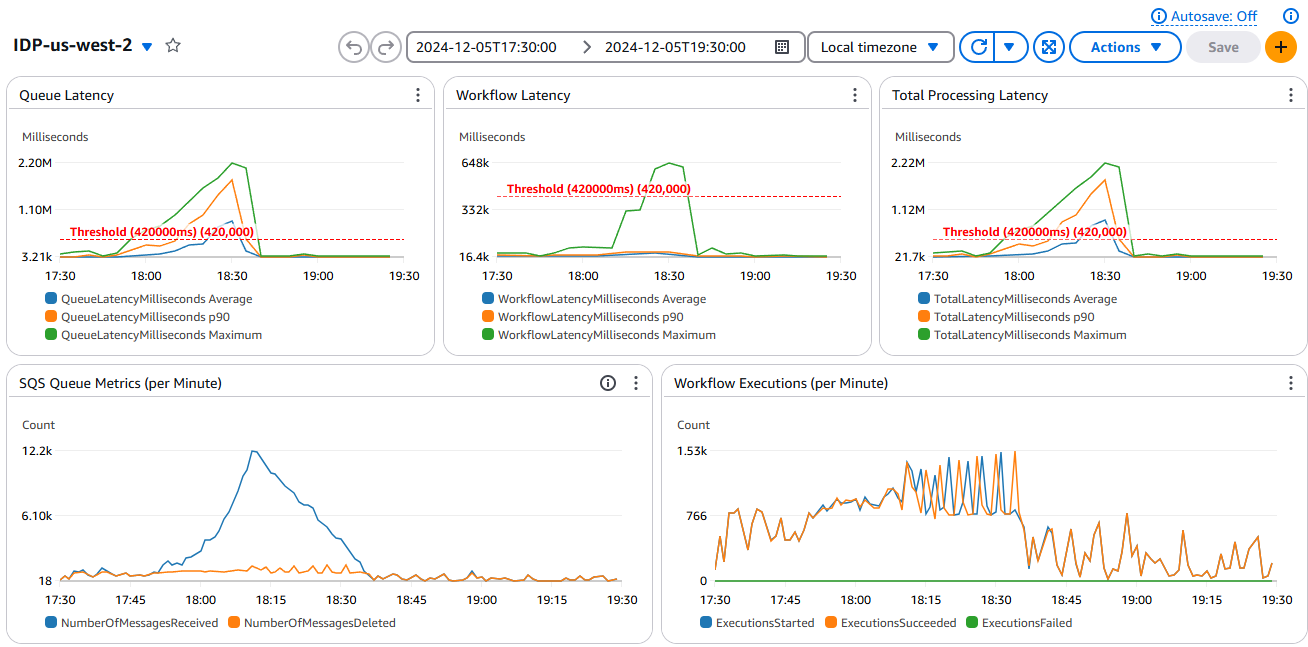
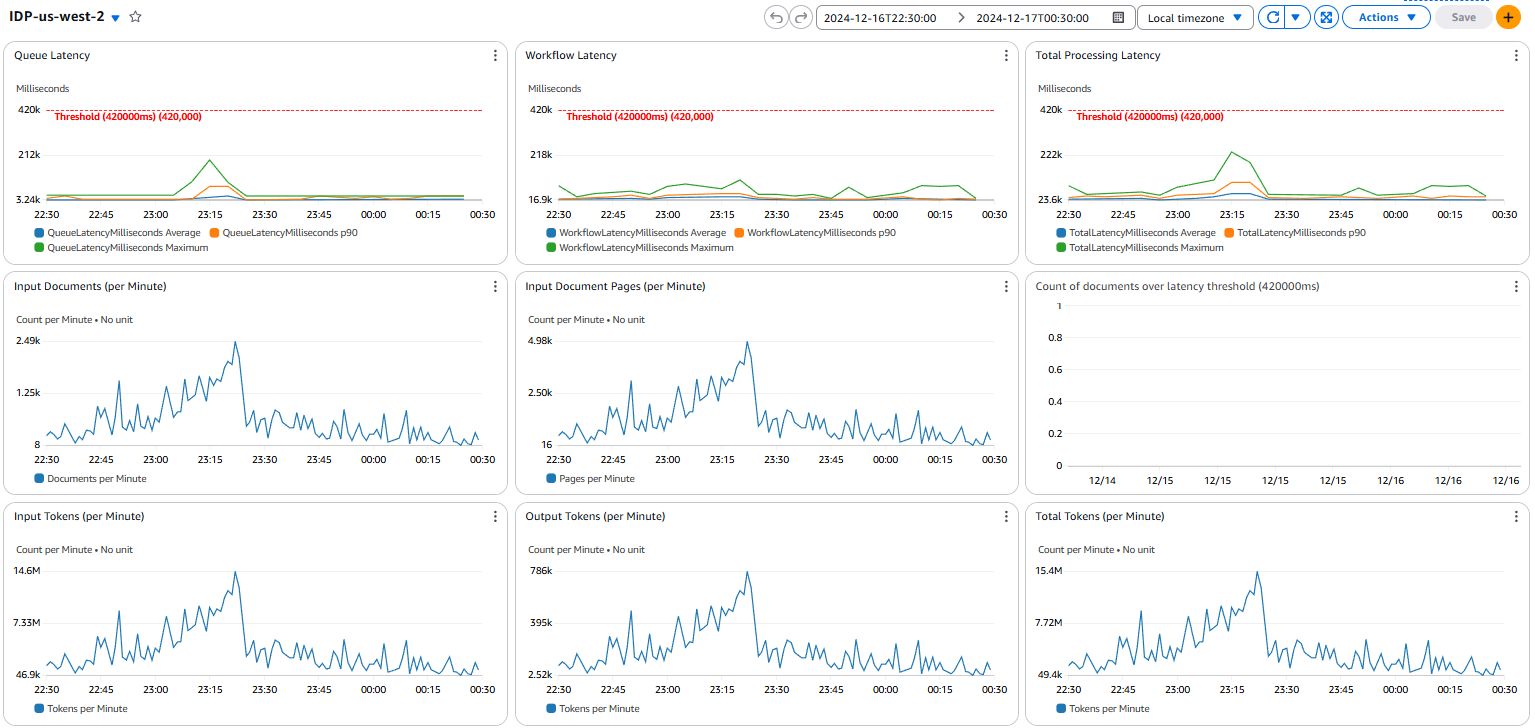
Add widgets to dashboard, add service quota limits, and refresh dashboard screenshots

diff --git a/README.md b/README.md
@@ -154,8 +154,10 @@ Increase maximum concurrency to maximise throughput for time sensitive workloads
 ### CloudWatch Dashboard
 Access via CloudWatch > Dashboards > `${StackName}-${Region}`
 
-<img src="./images/Dashboard1.png" alt="Dashboard1" width="800">
-<img src="./images/Dashboard2.png" alt="Dashboard2" width="800">
+<img src="./images/Dashboard1.png" alt="Dashboard1" width="800">  
+
+<img src="./images/Dashboard2.png" alt="Dashboard2" width="800">  
+
 <img src="./images/Dashboard3.png" alt="Dashboard3" width="800">
 
 
@@ -166,16 +168,16 @@ Access via CloudWatch > Dashboards > `${StackName}-${Region}`
 All include average, p90, and maximum values
 
 #### Throughput Metrics
+- Document and Page counts
+- LLM Tokens processed 
 - SQS Queue metrics (received/deleted)
 - Step Functions execution counts
 - Textract and Bedrock function invocations and durations
-- Document and Page counts
-- LLM Tokens processed 
 
 #### Error Tracking
-- Failed Step Functions executions
-- Lambda function errors
 - Long-running invocations
+- Lambda function errors
+- Failed Step Functions executions
 
 ### Log Groups
 ```
@@ -235,6 +237,18 @@ All include average, p90, and maximum values
   ExtractionPromps='OCR + Page Images'                  # Optionally exclude images from prompt to trade accuracy for cost/throughput.
   ```
 
+## Service Quota Limits for high volume processing
+
+Consider requesting raised quotas for the following services, to avoid throttling errors:
+- Amazon Textract -> DetectDocumentText throttle limit in transactions per second 
+- Amazon Bedrock -> On-demand InvokeModel tokens per minute for Anthropic Claude 3.5 Sonnet V2
+- Amazon Bedrock -> On-demand InvokeModel requests per minute for Anthropic Claude 3.5 Sonnet V2
+- AWS Lambda -> Concurrent executions
+- Amazon CloudWatch - Rate of PutMetricData requests
+
+Use the CloudWatch Dashboard to check errors reported by Lambda functions during scale testing, to check for these, or other, service quota limit exceptions.
+
+
 ## Troubleshooting Guide
 
 1. **Document Not Processing**
@@ -251,20 +265,21 @@ All include average, p90, and maximum values
    - Check Step Functions execution errors
    - Review Lambda error logs
    - Verify input document format
+   - Check Dead Letter SQS Queues for evidence of any unprocessed events
 
 ## Performance Considerations
-
-1. **Batch Processing**
-   - SQS configured for batch size of 10
-   - Reduces Lambda invocation overhead
-   - Maintains reasonable processing order
 
 2. **Concurrency**
    - Controlled via DynamoDB counter
    - Default limit of 800 concurrent workflows
    - Adjustable to max throughput based on Bedrock quotas
 
-3. **Queue Management**
+1. **SQS Batch Processing**
+   - SQS configured for batch size of 50, max delay of 1s.
+   - Reduces Lambda invocation overhead
+   - Maintains reasonable processing order
+
+3. **SQS Queue Management**
    - Standard queue for higher throughput
    - Visibility timeout matches workflow duration
    - Built-in retry for failed messages
